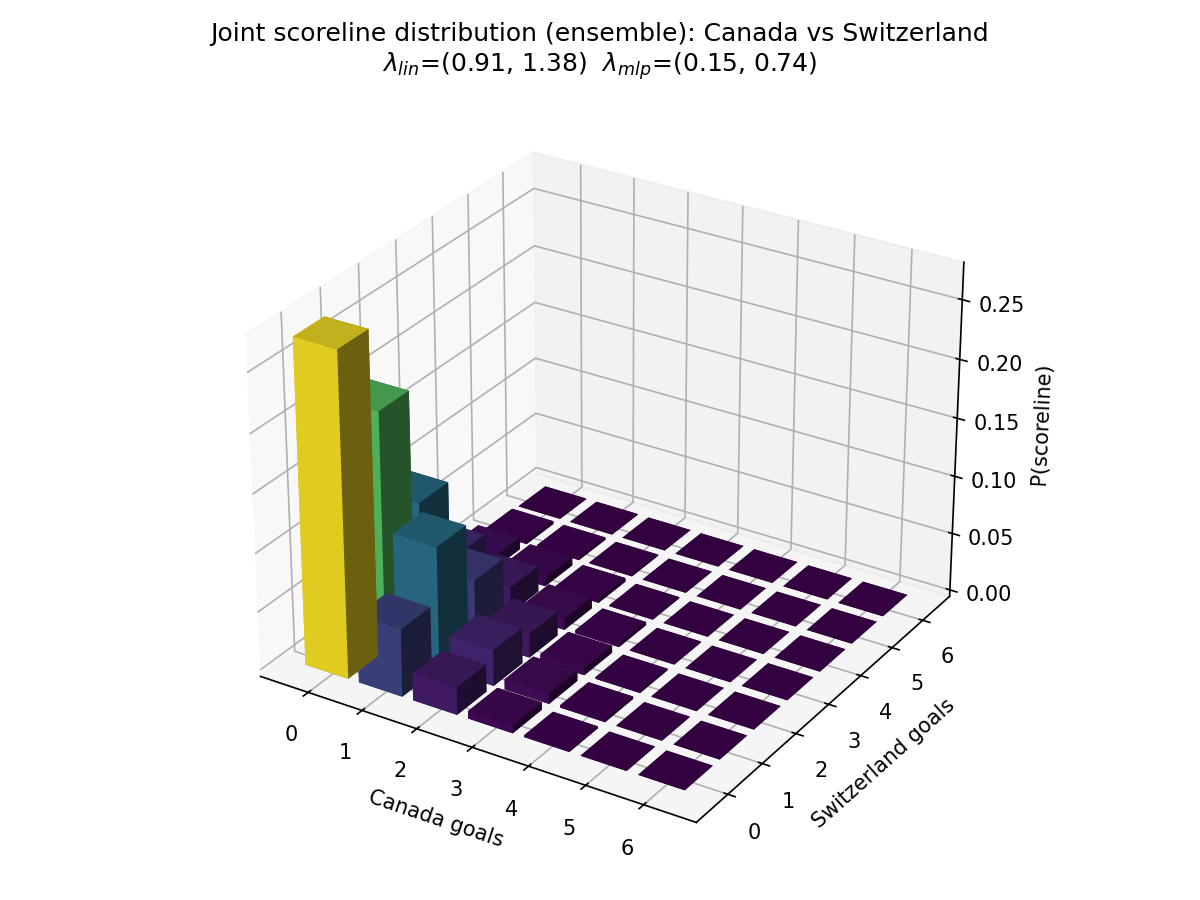
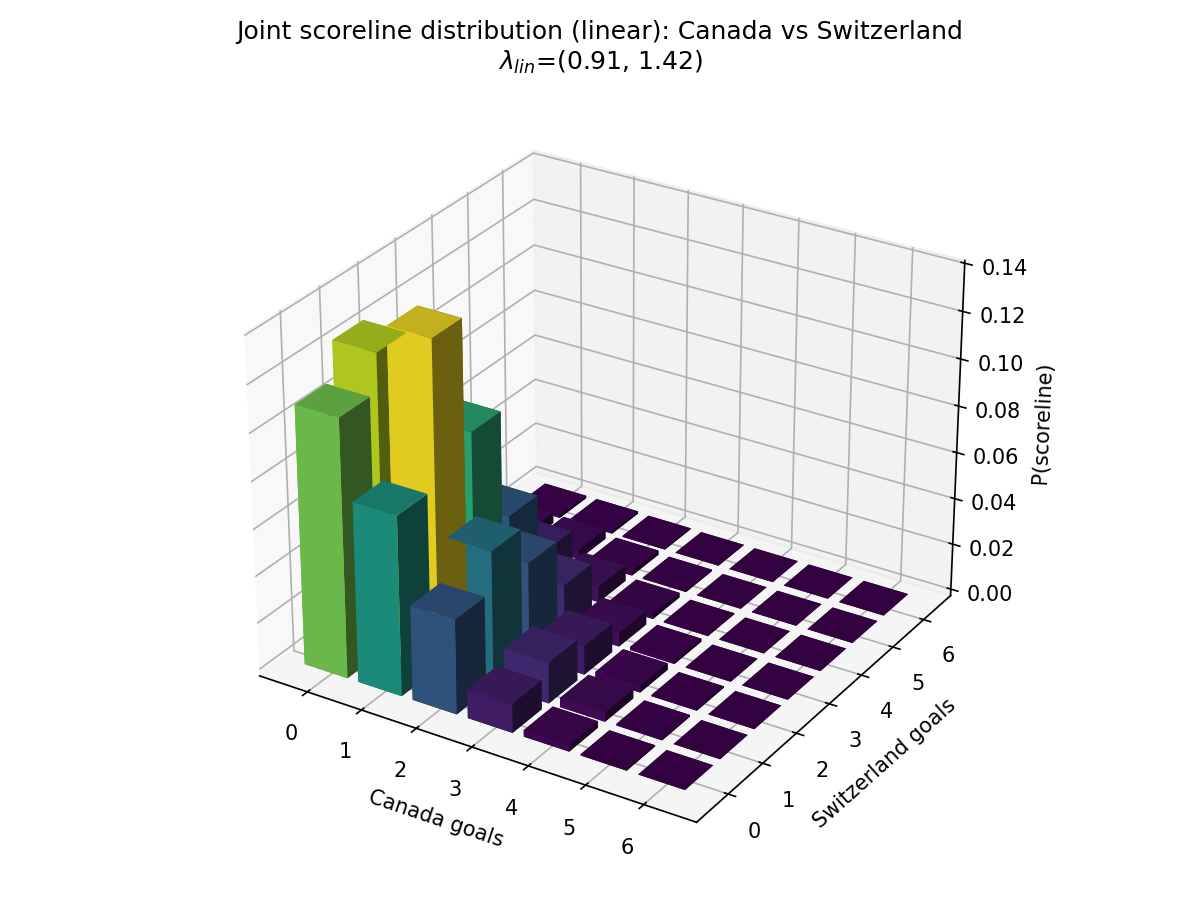
readme update

diff --git a/canada_query.py b/canada_query.py
@@ -22,8 +22,8 @@ from wc_simulation import (
     load_bracket, build_team_features, make_feat_builder, neutral_lambdas,
     TRAIN_END, VAL_START, BEST_ALPHA, BEST_MLP, ELO_CSV, SQUAD_CSV,
 )
-from training import prepare_training_data, LinearRegressionDixonColes
-from experiments import FULL_FEATURES, build_X, train_mlp, predict_mlp
+from core.training import prepare_training_data, LinearRegressionDixonColes
+from core.experiments import FULL_FEATURES, build_X, train_mlp, predict_mlp
 
 # ---------------------------------------------------------------------------
 # Args:  python canada_query.py "Team A" "Team B" [--no-plot]
@@ -87,7 +87,7 @@ def odds(p):
 # Load the same two models the WC simulation uses (train + cache on first run,
 # reload from ./models afterwards). Pass --retrain to force a fresh fit.
 # ---------------------------------------------------------------------------
-from model_store import load_or_train
+from core.model_store import load_or_train
 RETRAIN = '--retrain' in sys.argv
 lin, mlp = load_or_train(retrain=RETRAIN)
 
@@ -160,7 +160,7 @@ for name, key in rows:
     print(f"  {name:32}{cells}")
 
 # ===========================================================================
-# 3D joint-scoreline surface (ensemble)
+# 3D joint-scoreline surface (linear)
 # ===========================================================================
 if MAKE_PLOT:
     import matplotlib
@@ -168,7 +168,7 @@ if MAKE_PLOT:
     import matplotlib.pyplot as plt
     from pathlib import Path
 
-    P = mats['ensemble'][:PLOT_GOALS, :PLOT_GOALS]
+    P = mats['linear'][:PLOT_GOALS, :PLOT_GOALS]
     g = np.arange(PLOT_GOALS)
     fig = plt.figure(figsize=(8, 6))
     ax = fig.add_subplot(111, projection='3d')
@@ -180,9 +180,8 @@ if MAKE_PLOT:
     ax.set_xlabel(f'{TEAM_A} goals'); ax.set_ylabel(f'{TEAM_B} goals'); ax.set_zlabel('P(scoreline)')
     ax.set_xticks(g); ax.set_yticks(g)
     la, lb = lams['linear']
-    le, be = lams['mlp']
-    ax.set_title(f'Joint scoreline distribution (ensemble): {TEAM_A} vs {TEAM_B}\n'
-                 rf'$\lambda_{{lin}}$=({la:.2f}, {lb:.2f})  $\lambda_{{mlp}}$=({le:.2f}, {be:.2f})')
+    ax.set_title(f'Joint scoreline distribution (linear): {TEAM_A} vs {TEAM_B}\n'
+                 rf'$\lambda_{{lin}}$=({la:.2f}, {lb:.2f})')
     ax.view_init(elev=28, azim=-58)
     plt.tight_layout()
     fname = f"{TEAM_A}_vs_{TEAM_B}.png".replace(' ', '_').replace('&', 'and')

diff --git a/wc_simulation.py b/wc_simulation.py
@@ -28,8 +28,8 @@ import numpy as np
 import pandas as pd
 from pathlib import Path
 
-from training import prepare_training_data, LinearRegressionDixonColes
-from experiments import FULL_FEATURES, build_X, train_mlp, predict_mlp
+from core.training import prepare_training_data, LinearRegressionDixonColes
+from core.experiments import FULL_FEATURES, build_X, train_mlp, predict_mlp
 
 base_dir = Path(__file__).resolve().parent
 WC_JSON = base_dir / 'data' / 'worldcup' / 'worldcup2026.json'

diff --git a/analysis/__init__.py b/analysis/__init__.py
@@ -1,0 +1,1 @@
+

diff --git a/betting_odds.py b/betting_odds.py
@@ -1,0 +1,1 @@
+import betfairlightweight 

diff --git a/core/__init__.py b/core/__init__.py
@@ -1,0 +1,1 @@
+

diff --git a/pipeline/__init__.py b/pipeline/__init__.py
@@ -1,0 +1,1 @@
+

diff --git a/README.md b/README.md
@@ -1,2 +1,155 @@
-# Human-vs-Gradient-Descent-for-WC-Predictions
-A comparison of a linear regression fit of features to a neural network for parameter estimation for the dixon-coles model of predicting football match outcomes. 
+# Human vs Gradient Descent — WC 2026 Predictions
+
+A numerical comparison of **linear regression** and a **multilayer perceptron (MLP)** as parameter estimators for the Dixon-Coles football match model, applied to predicting the 2026 FIFA World Cup.
+
+---
+
+## What this is
+
+The Dixon-Coles model treats the goals scored by each side as two correlated Poisson random variables parameterised by (λ_home, λ_away, ρ). The question this project answers is: **does a neural network estimate those parameters better than a structured linear fit?**
+
+The short answer is: barely, and at a significant cost in robustness.
+
+On a held-out test set the MLP achieves RPS = 0.1756 vs. the linear model's RPS = 0.1762 — statistically within noise. But when those same models are used to simulate the World Cup 10,000 times, the MLP is wildly unstable: changing the network width from 64 to 256 hidden units shifts the predicted tournament favourite from Spain to Germany. The linear model's championship probabilities (Spain 14%, France 10.8%, Argentina 8.6%) are stable across all hyperparameter settings and close to bookmaker expectations.
+
+The thesis: equal single-match accuracy hides a large gap in robustness, in favour of the simpler, interpretable "human" model.
+
+Full write-up: [`reports/project_report.pdf`](reports/project_report.pdf)
+
+---
+
+## Features
+
+**Match results** (`pipeline/data_pipeline.py`):
+- Walk-forward **Elo ratings** (divisor 800, tournament-scaled K) computed from all international results since 2000
+- **Goals scored and conceded** over each team's last 10 matches as separate features (not collapsed to goal difference)
+
+**Squad quality** (`pipeline/squad_features.py`):
+- Sourced from EA Sports FC / FIFA player ratings (FC15–FC26)
+- Per team: `squad_avg`, `squad_std`, `attack_avg`, `midfield_avg`, `defence_avg`, `bench_avg`, `bench_std`, goalkeeper rating
+- Matched by FIFA year (FC game release maps to the calendar year of the tournament)
+
+The full feature vector is 20-dimensional (home and away versions of all the above).
+
+---
+
+## Models
+
+Both models are fitted by maximising the Dixon-Coles log-likelihood on temporally weighted match data (exponential decay, recent matches count more).
+
+| | Linear | MLP |
+|---|---|---|
+| Architecture | Two linear heads (λ_home, λ_away) + scalar ρ | 3-layer ReLU MLP, softplus output for λ, tanh for ρ |
+| Optimiser | L-BFGS-B (scipy) | Adam with gradient clipping |
+| Regularisation | Ridge penalty α = 10 on slope coefficients | Dropout + early stopping on val NLL |
+| Test RPS | 0.1762 | 0.1756 |
+
+Knockout ties are resolved by goalkeeper rating (gk_A / (gk_A + gk_B)) rather than overall λ, reflecting that penalty shootouts are dominated by the keeper.
+
+---
+
+## Key findings
+
+- Both models beat a base-rate baseline (RPS 0.2234) by a wide margin; neither beats the other significantly.
+- The MLP's tournament forecasts are brittle to architecture choices; the linear model's are not.
+- The linear model is interpretable: opposition Elo suppresses goal expectation ~3× more than own Elo raises it; goals conceded is ~2× more informative than goals scored; a strong defence increases expected goals (likely via an aggressive defensive line enabling higher press).
+- Dropping friendly matches from training hurts both models — friendlies carry real squad-quality signal despite lower stakes.
+- Feature reduction to 10 features costs almost nothing in accuracy, suggesting the positional sub-features are largely redundant.
+
+---
+
+## Repo structure
+
+```
+wc_simulation.py        Run the full WC 2026 Monte Carlo simulation (10 000 draws).
+                        Prints championship probabilities for all 48 teams, linear
+                        and MLP side-by-side.
+
+canada_query.py         Query tool for any single fixture. Given two team names,
+                        prints expected goals, W/D/L odds, margin/total/BTTS
+                        markets, and group qualification probabilities for all
+                        three models. Saves a 3D scoreline surface to figures/.
+
+core/
+  dixon_coles.py        Dixon-Coles joint scoreline matrix and W/D/L probabilities
+                        from two Poisson rates + the τ low-score correction.
+  training.py           LinearRegressionDixonColes class (L-BFGS-B MLE fit) and
+                        prepare_training_data() — loads CSVs, merges squad
+                        features by FIFA year, builds the feature matrix with
+                        temporal decay weights.
+  evaluate.py           Scoring rules (RPS, log-loss, Brier, accuracy) and
+                        model-to-probability adapters (predict_linear, predict_mlp).
+  experiments.py        Full experiment harness: train/val/test split, MLP
+                        hyperparameter sweep (55 configs), ridge α sweep, feature
+                        reduction, friendlies ablation, and final test evaluation.
+                        Writes results/experiment_results.csv and
+                        reports/experiments_report.tex.
+  model_store.py        Save/load trained models to models/ so canada_query.py
+                        doesn't retrain from scratch on every run.
+
+pipeline/
+  data_pipeline.py      Builds match_results_elo.csv from the raw results CSV:
+                        walk-forward Elo ratings + last-10 goals scored/conceded.
+  squad_features.py     Builds squad_features.csv from FC15–FC26 player CSVs:
+                        per-team squad/positional averages and goalkeeper rating.
+
+analysis/
+  elo_experiment.py     Sensitivity study: reruns best models with Elo divisor
+                        D ∈ {200, 800, 1600} and fixed K=50. Appends results to
+                        experiment_results.csv.
+  figures.py            Generates the joint scoreline surface figure (Spain vs
+                        France) used in the report.
+  inspect_features.py   Diagnostic script: prints per-team feature vectors and
+                        neutral λ estimates for every Group C pairing, and checks
+                        how the MLP's input standardization affects each feature.
+
+data/
+  worldcup/             worldcup2026.json — official bracket (groups, R32, KO tree)
+  fc24/                 FC15–FC24 player ratings (male_players.csv)
+  fc25/                 FC25 player ratings
+  fc26/                 FC26 player ratings
+  results/              results.csv — raw international match results
+
+results/                Generated CSVs: match_results_elo.csv, squad_features.csv,
+                        experiment_results.csv
+
+models/                 Cached trained models (linear_dc.pkl, mlp_dc.pt).
+                        Auto-created on first run of canada_query.py.
+
+figures/                Output plots (scoreline surfaces).
+reports/                project_report.pdf — full write-up
+                        experiments_report.pdf — experiment tables (auto-generated)
+```
+
+---
+
+## Running
+
+**Simulate the World Cup:**
+```bash
+python wc_simulation.py
+```
+
+**Query a match (e.g. Canada vs Switzerland):**
+```bash
+python canada_query.py "Canada" "Switzerland"
+python canada_query.py "Brazil" "Argentina" --no-plot
+```
+
+**Re-run experiments** (takes ~30–60 min):
+```bash
+python -m core.experiments
+```
+
+**Rebuild data pipeline** (requires raw CSVs in `data/`):
+```bash
+python -m pipeline.data_pipeline    # builds match_results_elo.csv
+python -m pipeline.squad_features   # builds squad_features.csv
+```
+
+---
+
+## References
+
+- Dixon, M. J. & Coles, S. G. (1997). Modelling Association Football Scores and Inefficiencies in the Football Betting Market. *Journal of the Royal Statistical Society: Series C*, 46(2), 265–280.
+- Arntzen, H. & Hvattum, L. M. (2021). Predicting match outcomes in association football using team ratings and player ratings. *Statistical Modelling*, 21(5).